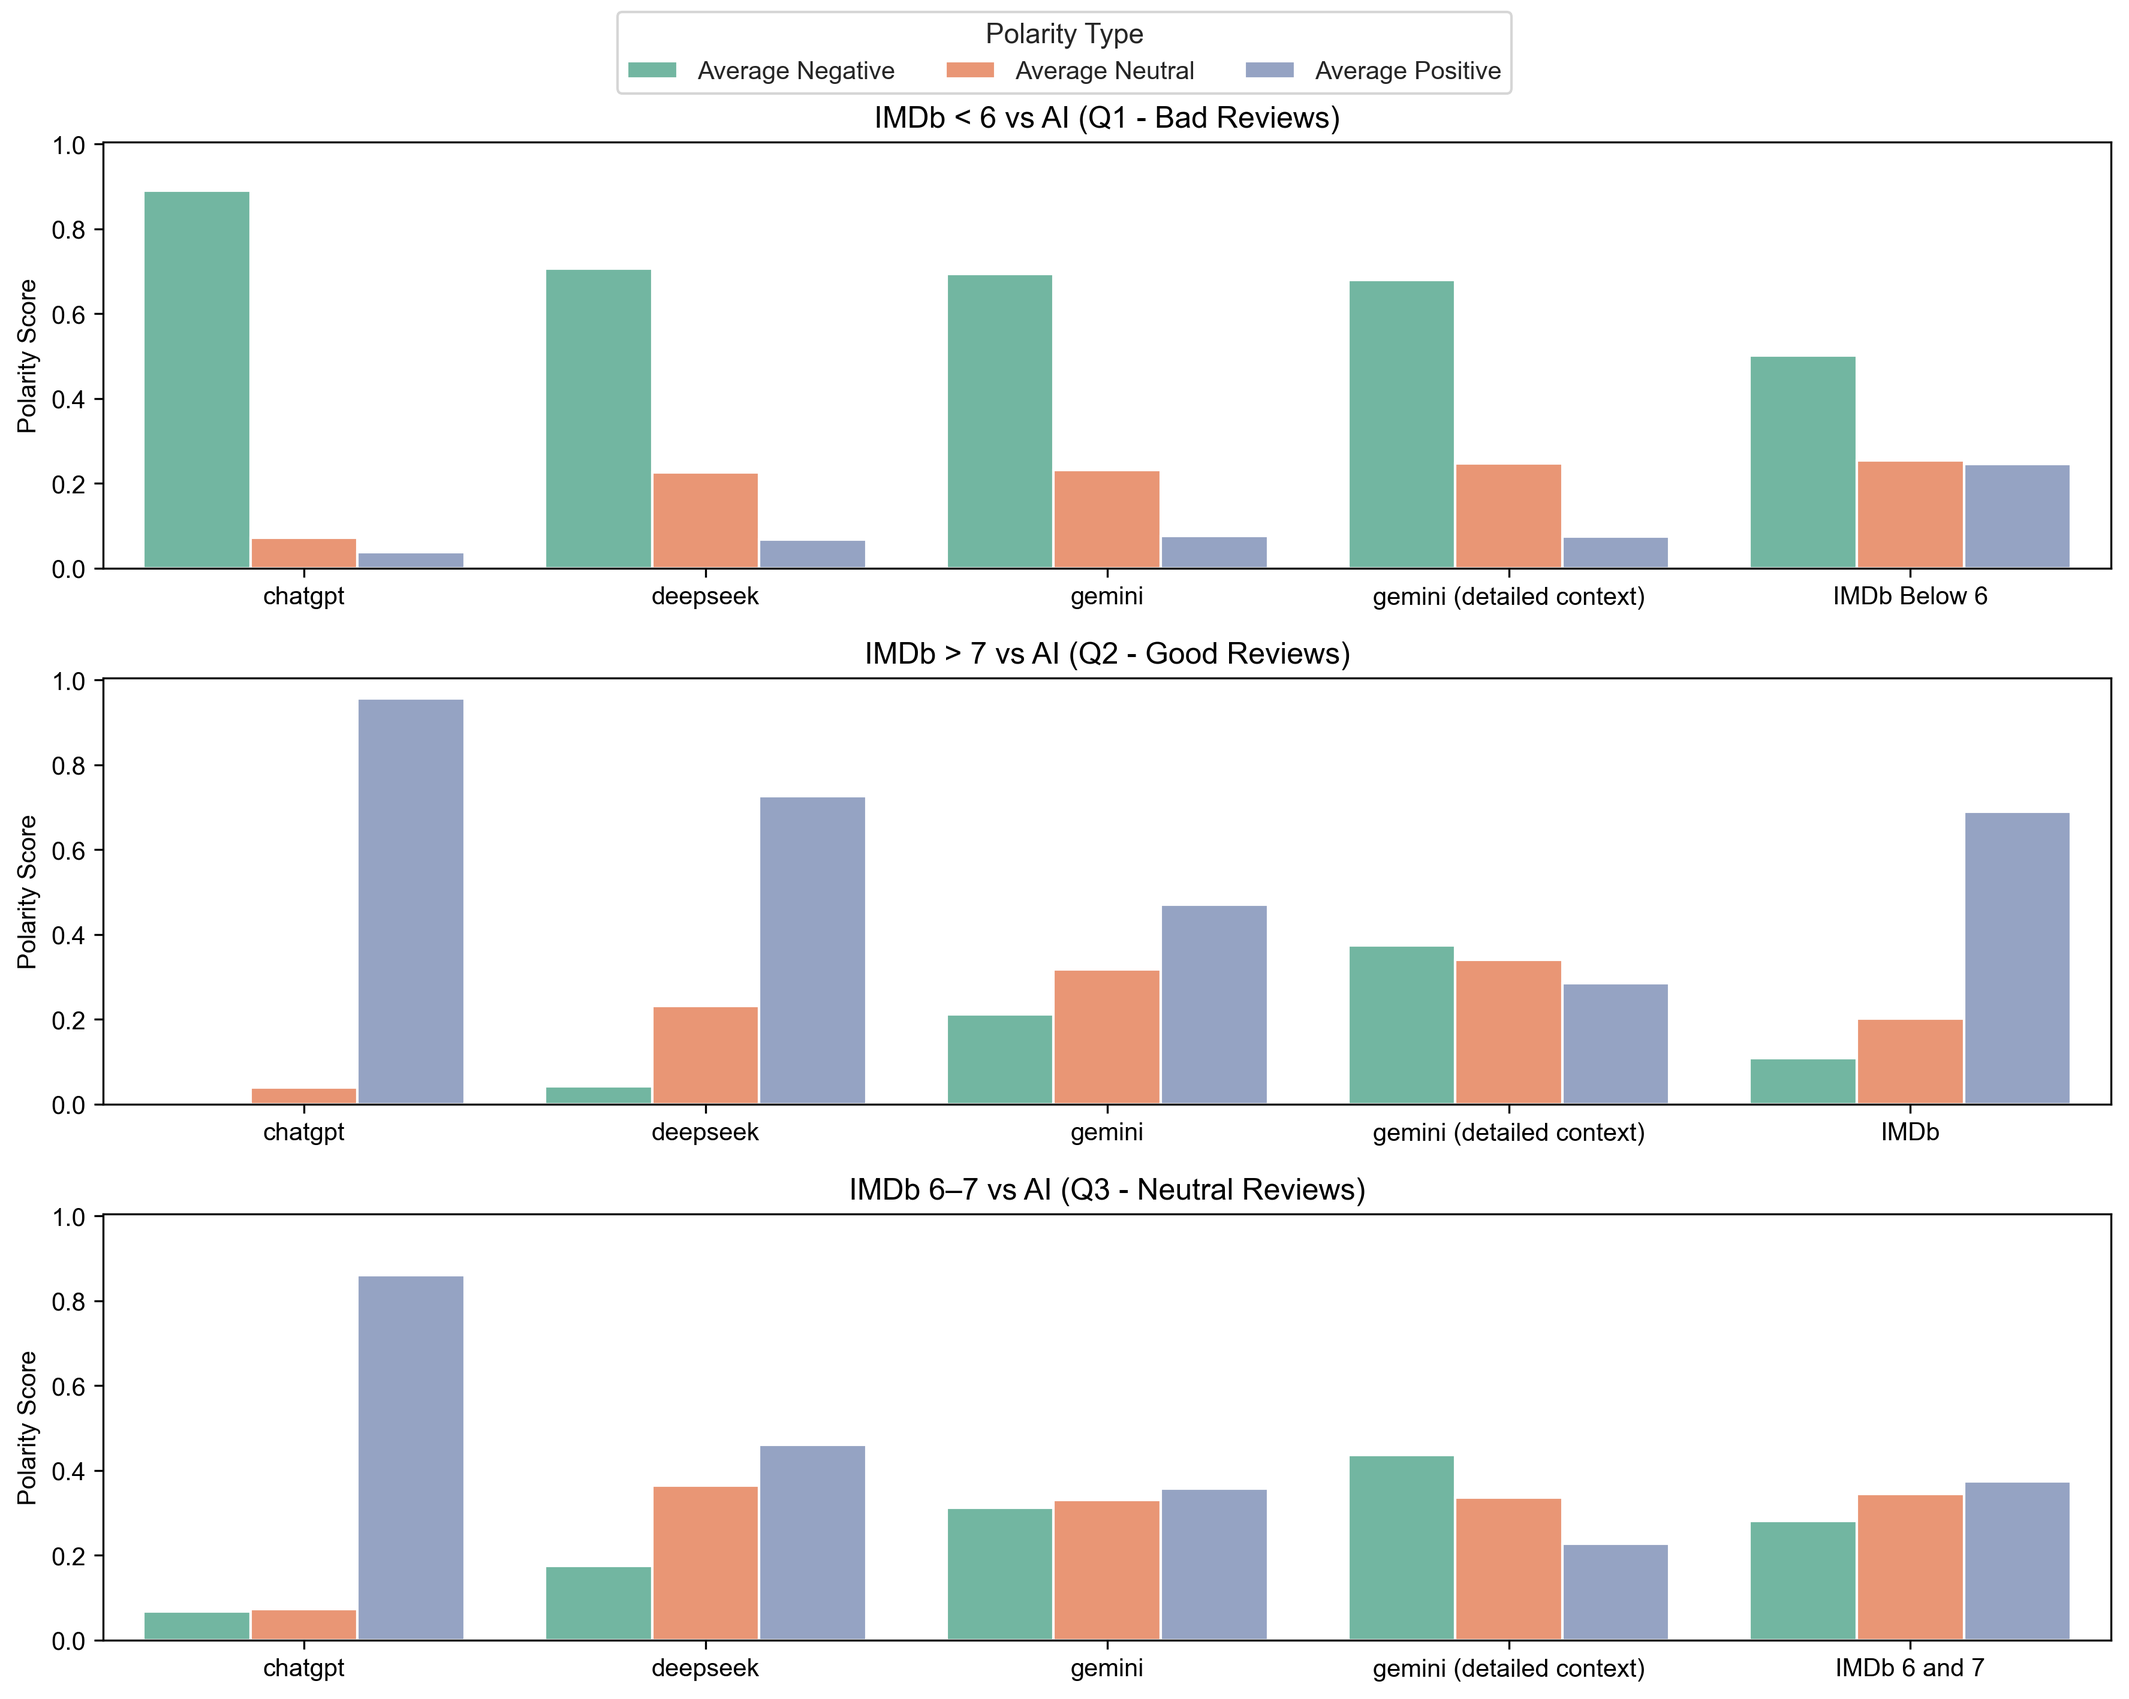
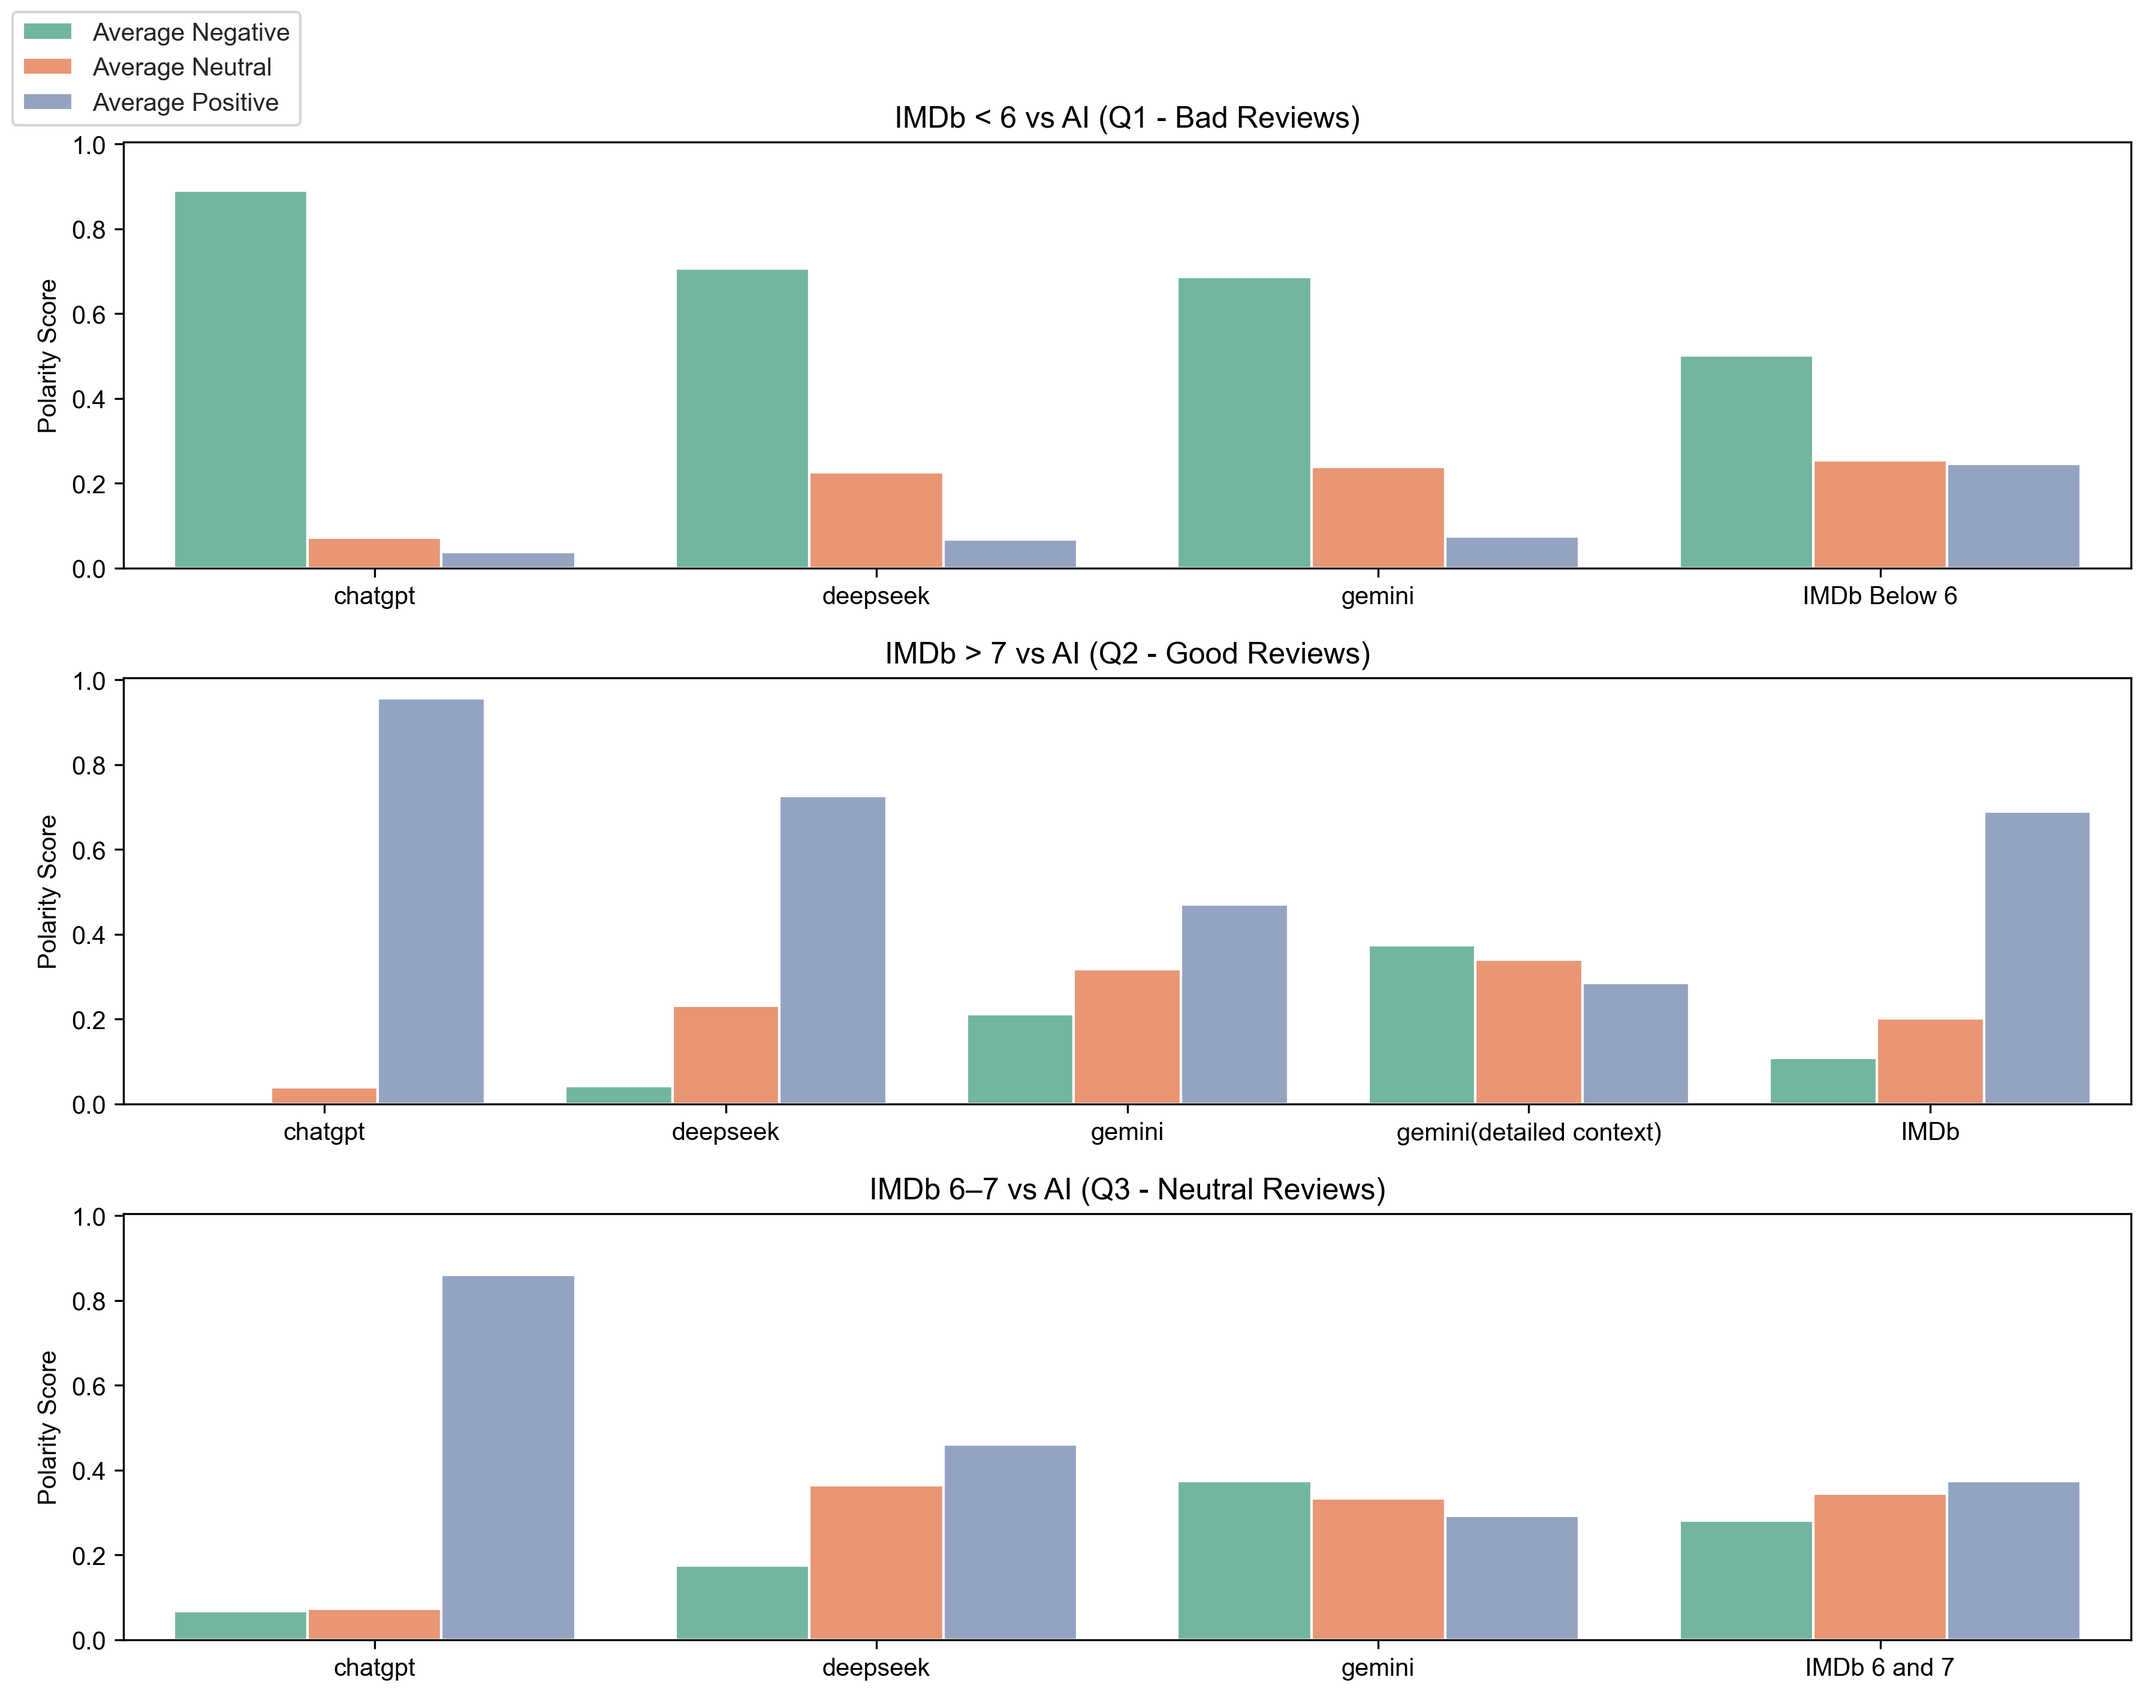
AI -> LLM

diff --git a/visualization/polarity.py b/visualization/polarity.py
@@ -74,9 +74,9 @@ def generate_polarity_barplot(source_name):
     palette = sns.color_palette("Set2", 3)
 
     plot_data = [
-        ('IMDb < 6 vs AI (Q1 - Negative Reviews)', melted_bad_reviews, axes[0]),
-        ('IMDb > 7 vs AI (Q2 - Positve Reviews)', melted_good_reviews, axes[1]),
-        ('IMDb 6–7 vs AI (Q3 - Neutral Reviews)', melted_neutral_reviews, axes[2])
+        ('IMDb < 6 vs LLM (Q1 - Negative Reviews)', melted_bad_reviews, axes[0]),
+        ('IMDb > 7 vs LLM (Q2 - Positve Reviews)', melted_good_reviews, axes[1]),
+        ('IMDb 6–7 vs LLM (Q3 - Neutral Reviews)', melted_neutral_reviews, axes[2])
     ]
 
     for title, df, ax in plot_data:
